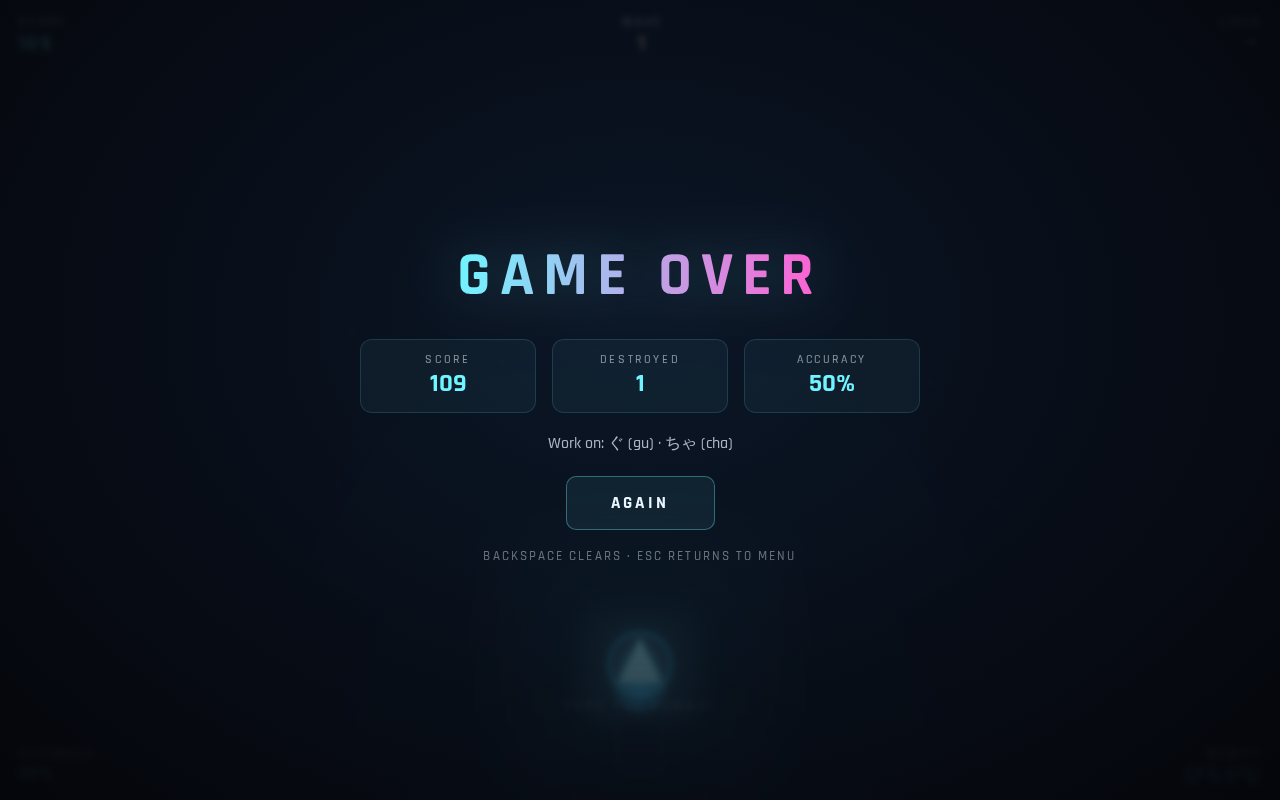
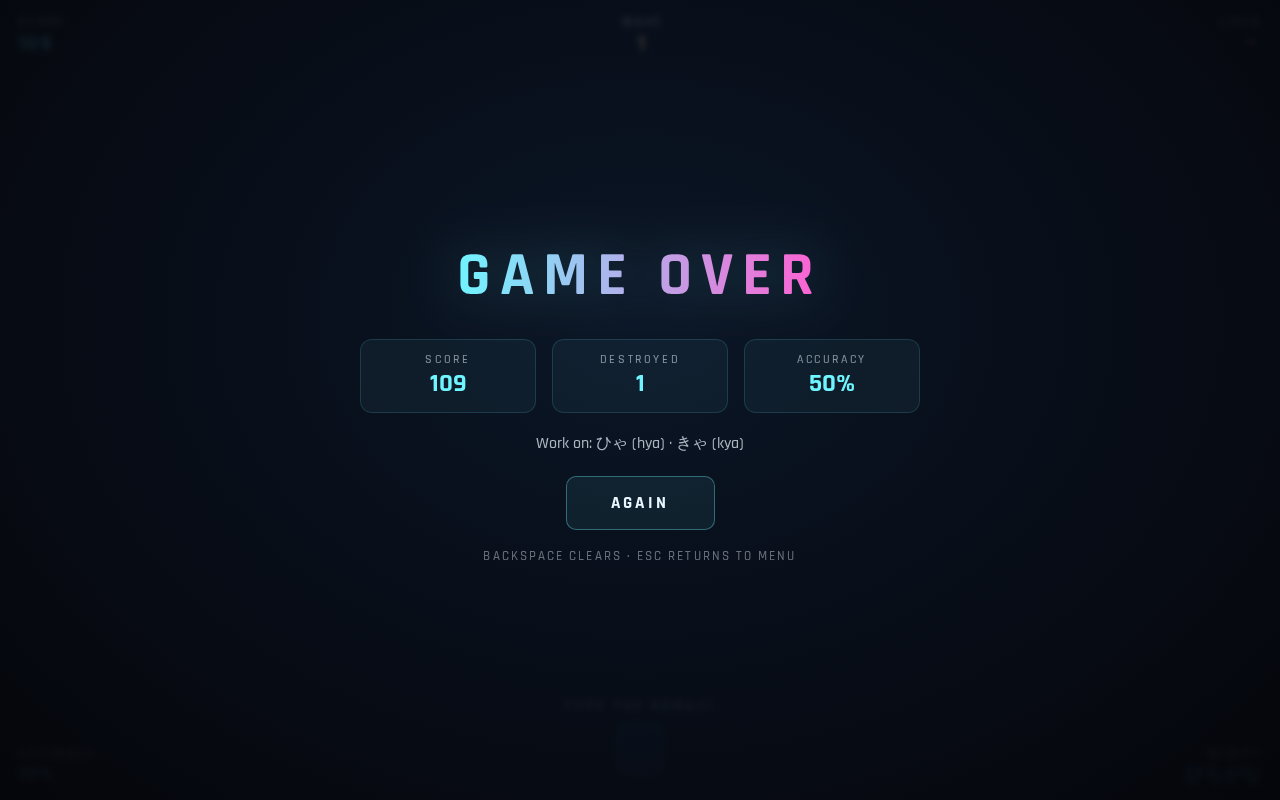
Only one kana on screen at a time
Movement had no connection to the core typing mechanic — targeting matches
typed romaji against any live ship regardless of the player's position, and
a kill always lands no matter where the ship is. With up to 7 ships
crowding the screen at once, picking which one to engage was its own
unrelated triage puzzle layered on top of kana recall. Capping maxOnScreen
at a constant 1 removes that: one kana to read and answer, next one right
after. Waves still ramp difficulty (fall speed, how soon bullets start)
without ever crowding the screen.

A kill or an escape now also caps the spawn timer (RESPAWN_GAP) instead of
leaving the field empty until spawnIn happens to expire — otherwise the
single-ship field could sit empty for up to 1.5s between ships.

Updated both test suites: a couple of checks assumed multiple live enemies
would naturally coexist (used to disambiguate "closest matching target",
and to stage a 5-ship screenshot lineup) — now dead code paths with only
one ship ever alive, and in one case a source of real flakiness whenever
the single live ship happened to be ん/ン (the one single-letter romaji).
Replaced with deterministic test-hook spawns. Screenshots regenerated to
show the actual single-ship gameplay instead of a staged crowd.

Claude-Session: https://claude.ai/code/session_019cpcKUdB5Yisp8d3dSsc5r

Changed region(s): [[0.4688, 0.7812, 0.5312, 0.9062], [0.4062, 0.5312, 0.5938, 0.5625]]

diff --git a/index.html b/index.html
@@ -702,13 +702,21 @@ function spawnBullet(from){
    7. GAME STATE
    ========================================================================== */
 
+// With only one kana on screen at a time, a kill/escape shouldn't leave the
+// field empty until the next spawnIn timer happens to expire (up to 1.5s) —
+// cap the wait so the next ship appears promptly.
+const RESPAWN_GAP = 0.35;
+
 const S = {
   running: false, over: false, paused: false,
   mode: 'hiragana', pool: [], difficulty: 3,
   score: 0, wave: 1, lives: 3,
   kills: 0, typed: 0, correct: 0,
   buffer: '', target: null,
-  spawnIn: 0, spawnEvery: 1.5, speed: 5.5, maxOnScreen: 3,
+  // maxOnScreen is fixed at 1 — one kana to read and type at a time. Waves
+  // still ramp difficulty (falling speed, how soon the next one can fire),
+  // just never by crowding the screen.
+  spawnIn: 0, spawnEvery: 1.5, speed: 5.5, maxOnScreen: 1,
   elapsed: 0, combo: 0, bestCombo: 0, invuln: 0,
   missedSetup: new Set(),
 };
@@ -883,6 +891,7 @@ function handleChar(k){
 
     killEnemy(victim);
     Audio_.kill(0.8 + Math.min(S.combo, 8) * 0.06);
+    S.spawnIn = Math.min(S.spawnIn, RESPAWN_GAP);
     S.buffer = '';
     setBuffer('');
     retarget();
@@ -944,7 +953,7 @@ function resetGame(){
   S.score = 0; S.wave = 1; S.lives = 3;
   S.kills = 0; S.typed = 0; S.correct = 0;
   S.buffer = ''; S.target = null;
-  S.spawnIn = 0.7; S.spawnEvery = 1.5; S.speed = 5.5; S.maxOnScreen = 3;
+  S.spawnIn = 0.7; S.spawnEvery = 1.5; S.speed = 5.5; S.maxOnScreen = 1;
   S.elapsed = 0; S.combo = 0; S.bestCombo = 0; S.invuln = 0;
 
   player.position.set(0, -38, 0);
@@ -1016,12 +1025,14 @@ function update(dt){
   }
 
   // ---- wave curve ----
+  // Enemy count never scales up (maxOnScreen is a fixed 1) — only the fall
+  // speed and the floor on back-to-back spawn gap do, from the fixed pool of
+  // one.
   const w = 1 + Math.floor(S.elapsed / 26);
   if (w !== S.wave){
     S.wave = w;
     S.spawnEvery = Math.max(0.62, 1.5 - (w - 1) * 0.11);
     S.speed = 5.5 + (w - 1) * 1.15;
-    S.maxOnScreen = Math.min(7, 3 + Math.floor(w / 2));
     refreshHud();
   }
 
@@ -1061,6 +1072,7 @@ function update(dt){
       flashToast(`${e.entry.glyph} = ${e.entry.romaji}`);
       scene.remove(e.g);
       enemies.splice(i, 1);
+      S.spawnIn = Math.min(S.spawnIn, RESPAWN_GAP);
       loseLife('escape');
       if (!S.running) return;
       if (S.target === e){ S.buffer = ''; setBuffer(''); retarget(); }

diff --git a/README.md b/README.md
@@ -1,8 +1,8 @@
 # Kana Shmup — かなシューティング
 
-A small Three.js shmup for drilling hiragana and katakana. Ships drift down
-carrying a kana; **you destroy one by typing its romaji.** Let a ship reach the
-bottom and you lose a life.
+A small Three.js shmup for drilling hiragana and katakana. One ship drifts
+down at a time, carrying a kana; **you destroy it by typing its romaji**, and
+the next appears right away. Let it reach the bottom and you lose a life.
 
 ## Running it
 
@@ -48,9 +48,11 @@ never overlap.
 
 ## How the drill works
 
-- **Targeting.** What you type matches against the *lowest* ship whose romaji
-  still fits what you've typed — the most urgent one. Matching ships are
-  highlighted, so you can see the lock before you finish the word.
+- **One at a time.** Only one ship is ever on screen — no triage, no picking
+  which of several to engage. See a kana, recall it, type it, the next one
+  appears as soon as it's gone. Waves still ramp difficulty by making the
+  single ship fall faster and (from wave 3) shoot at you, never by crowding
+  the screen.
 - **The answer is never shown.** Once you start a word the buffer shows your
   progress and placeholders, never the remaining letters. Handing over the rest
   of the word after the first keystroke would defeat the point for `tsu`,
